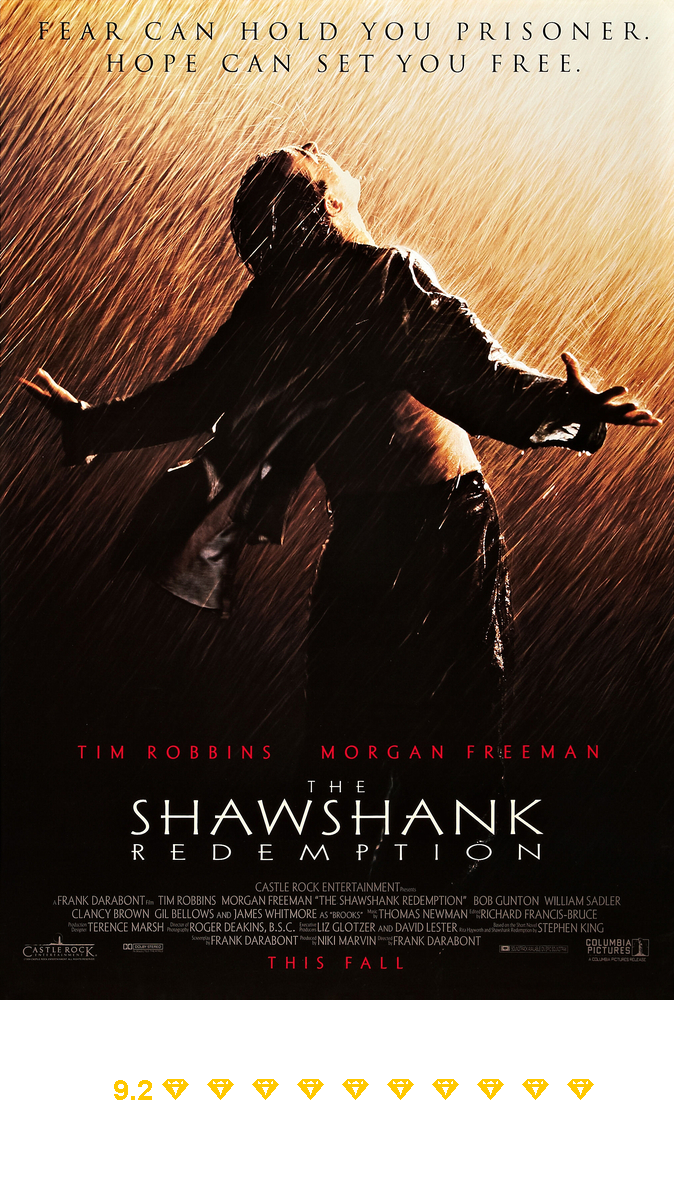
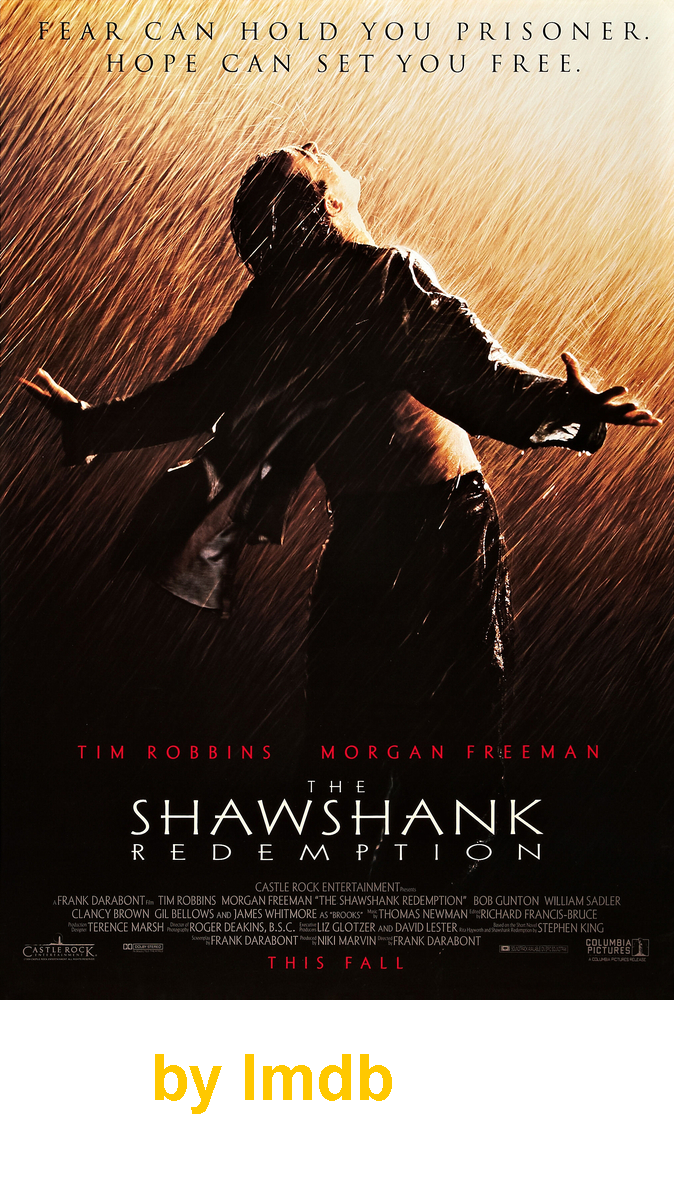
Refactoring after class 003

diff --git a/src/App.java b/src/App.java
@@ -1,62 +1,37 @@
 import java.io.InputStream;
-import java.net.URI;
 import java.net.URL;
-import java.net.http.HttpClient;
-import java.net.http.HttpRequest;
-import java.net.http.HttpResponse;
-import java.net.http.HttpResponse.BodyHandlers;
 import java.util.List;
-import java.util.Map;
 
 public class App {
-    private static StickersGenerator stickersGenerator;
-
     public static void main(String[] args) throws Exception {
         
         //fazer conexão para buscar os filmes
-        String url = "https://api.mocki.io/v2/549a5d8b";
-        //String url = "https://api.mocki.io/v2/549a5d8b/Top250Movies";
-        URI address = URI.create(url);
-        HttpClient client = HttpClient.newHttpClient();
-        HttpRequest request = HttpRequest.newBuilder(address).GET().build();
-        HttpResponse<String> response = client.send(request, BodyHandlers.ofString());
+        //String url = "https://api.mocki.io/v2/549a5d8b";
+        //ContentExtractor extractor = new ContentExtractorImdb();
 
-        String body = response.body();
+        String url = "https://api.mocki.io/v2/549a5d8b/NASA-APOD";
+        ContentExtractor extractor = new ContentExtractorNasa();
+        
+        HttpClientConnect http = new HttpClientConnect();
+        String json = http.findContent(url);
 
-        //extrair só os dados que interessam
-        JsonParser parser = new JsonParser();
-        List<Map<String, String>> movieList = parser.parse(body);
-
-        //exibir os dados
-        String rating = ""; 
-        //final String star = " * "; 
-        final String star = " \uD83D\uDC8E ";
+        List<Content> contents = extractor.contentsExtractor(json);
         StickersGenerator stickersGenerator = new StickersGenerator();
-        for (Map<String,String> movie : movieList) {
-            System.out.println(movie.get("title"));
 
-            String ImageUrl = movie.get("image");
-            String title = movie.get("title")
+        for (int i=0; i<3; i++) {
+            
+            Content content = contents.get(i);
+            String title = content.getTitle()
                             .replace(" ", "")
                             .replace(",", "")
                             .replace(".", "")
                             .replace(":", "");
             String fileName = title + ".png";
+            String ImageUrl = content.getUrlImage();
+
+            System.out.println("File: " + fileName);
             InputStream inputStream = new URL(ImageUrl).openStream();
-            
-            rating = "";     
-            double i = Double.parseDouble(movie.get("imDbRating"));
-            for (int j=0; j<i; j++){
-                rating = rating + star;
-            }
-            rating = movie.get("imDbRating") + rating;
-
-            stickersGenerator.create(inputStream, fileName, rating);
-
-            // System.out.println("Title: \u001b[37;1m \u001b[44;1m " + movie.get("title") + " \u001b[m ");
-            // System.out.println(movie.get("image"));
-            // System.out.println(" \u001b[33m " + rating + " \u001b[m ");
-            // System.out.println("      " + movie.get("imDbRating"));
+            stickersGenerator.create(inputStream, fileName, "by Imdb");
             System.out.println("-----------------------------------------------------------------");
         } 
 

diff --git a/src/StickersGenerator.java b/src/StickersGenerator.java
@@ -9,7 +9,7 @@ import javax.imageio.ImageIO;
 
 public class StickersGenerator {
     
-    public void create(InputStream inputStream, String fileName, String rate) throws Exception {
+    public void create(InputStream inputStream, String fileName, String text) throws Exception {
 
         // ler imagem
         //InputStream inputStream = new FileInputStream(new File("images/movie1.jpg"));
@@ -28,21 +28,7 @@ public class StickersGenerator {
         
         // Adaptar tamanho e posição do texto
         int fontSize = 64;
-        int textInitialPosition = 0;
-        if (width > 1599) {
-            fontSize = 64;
-            textInitialPosition = (width / 2)-(width / 4);
-        }
-        
-        if (width < 1600 && width > 700) {
-            fontSize = 32;
-            textInitialPosition = (width / 2)-(width / 4);
-        }
-        
-        if (width < 700) {
-            fontSize = 28;
-            textInitialPosition = (width / 2)-(width / 3);
-        }
+        int textInitialPosition = 150;
 
         // configurar a fonte
         Font font = new Font(Font.SANS_SERIF, Font.BOLD, fontSize);
@@ -50,7 +36,7 @@ public class StickersGenerator {
 
         // escrever um texto        
         graphics.setColor(Color.ORANGE);
-        graphics.drawString(rate, textInitialPosition, newHeight-100);
+        graphics.drawString(text, textInitialPosition, newHeight-100);
 
         // gravar a nova imagem em um arquivo
         ImageIO.write(newImage, "png", new File("images/"+fileName));

diff --git a/src/HttpClientConnect.java b/src/HttpClientConnect.java
@@ -1,0 +1,22 @@
+import java.io.IOException;
+import java.net.URI;
+import java.net.http.HttpClient;
+import java.net.http.HttpRequest;
+import java.net.http.HttpResponse;
+import java.net.http.HttpResponse.BodyHandlers;
+
+public class HttpClientConnect {
+    
+    public String findContent(String url){
+        try {
+            URI address = URI.create(url);
+            HttpClient client = HttpClient.newHttpClient();
+            HttpRequest request = HttpRequest.newBuilder(address).GET().build();
+            HttpResponse<String> response;
+            response = client.send(request, BodyHandlers.ofString());
+            return response.body();
+        } catch (IOException | InterruptedException e) {
+            throw new RuntimeException(e);
+        }
+    }
+}

diff --git a/src/ContentExtractorImdb.java b/src/ContentExtractorImdb.java
@@ -1,0 +1,21 @@
+import java.util.ArrayList;
+import java.util.List;
+import java.util.Map;
+
+public class ContentExtractorImdb implements ContentExtractor {
+        
+    public List<Content> contentsExtractor(String json) {
+        JsonParser parser = new JsonParser();
+        List<Map<String, String>> attributesList = parser.parse(json);
+
+        List<Content> contents = new ArrayList<>();
+
+        for (Map<String, String> atribute : attributesList) {
+            String title = atribute.get("title");
+            String urlImage = atribute.get("image");
+            Content content = new Content(title, urlImage);
+            contents.add(content);
+        }
+        return contents;
+    }
+}

diff --git a/src/ContentExtractorNasa.java b/src/ContentExtractorNasa.java
@@ -1,0 +1,21 @@
+import java.util.ArrayList;
+import java.util.List;
+import java.util.Map;
+
+public class ContentExtractorNasa implements ContentExtractor {
+    
+    public List<Content> contentsExtractor(String json) {
+        JsonParser parser = new JsonParser();
+        List<Map<String, String>> attributesList = parser.parse(json);
+
+        List<Content> contents = new ArrayList<>();
+
+        for (Map<String, String> atribute : attributesList) {
+            String title = atribute.get("title");
+            String urlImage = atribute.get("url");
+            Content content = new Content(title, urlImage);
+            contents.add(content);
+        }
+        return contents;
+    }
+}

diff --git a/src/Content.java b/src/Content.java
@@ -1,0 +1,17 @@
+public class Content {
+    private final String title;
+    private final String urlImage;
+
+    public Content(String title, String urlImage) {
+        this.title = title;
+        this.urlImage = urlImage;
+    }
+
+    public String getTitle() {
+        return title;
+    }
+
+    public String getUrlImage() {
+        return urlImage;
+    }
+}

diff --git a/src/ContentExtractor.java b/src/ContentExtractor.java
@@ -1,0 +1,6 @@
+import java.util.List;
+
+public interface ContentExtractor {
+    
+    List<Content> contentsExtractor(String json);
+}
